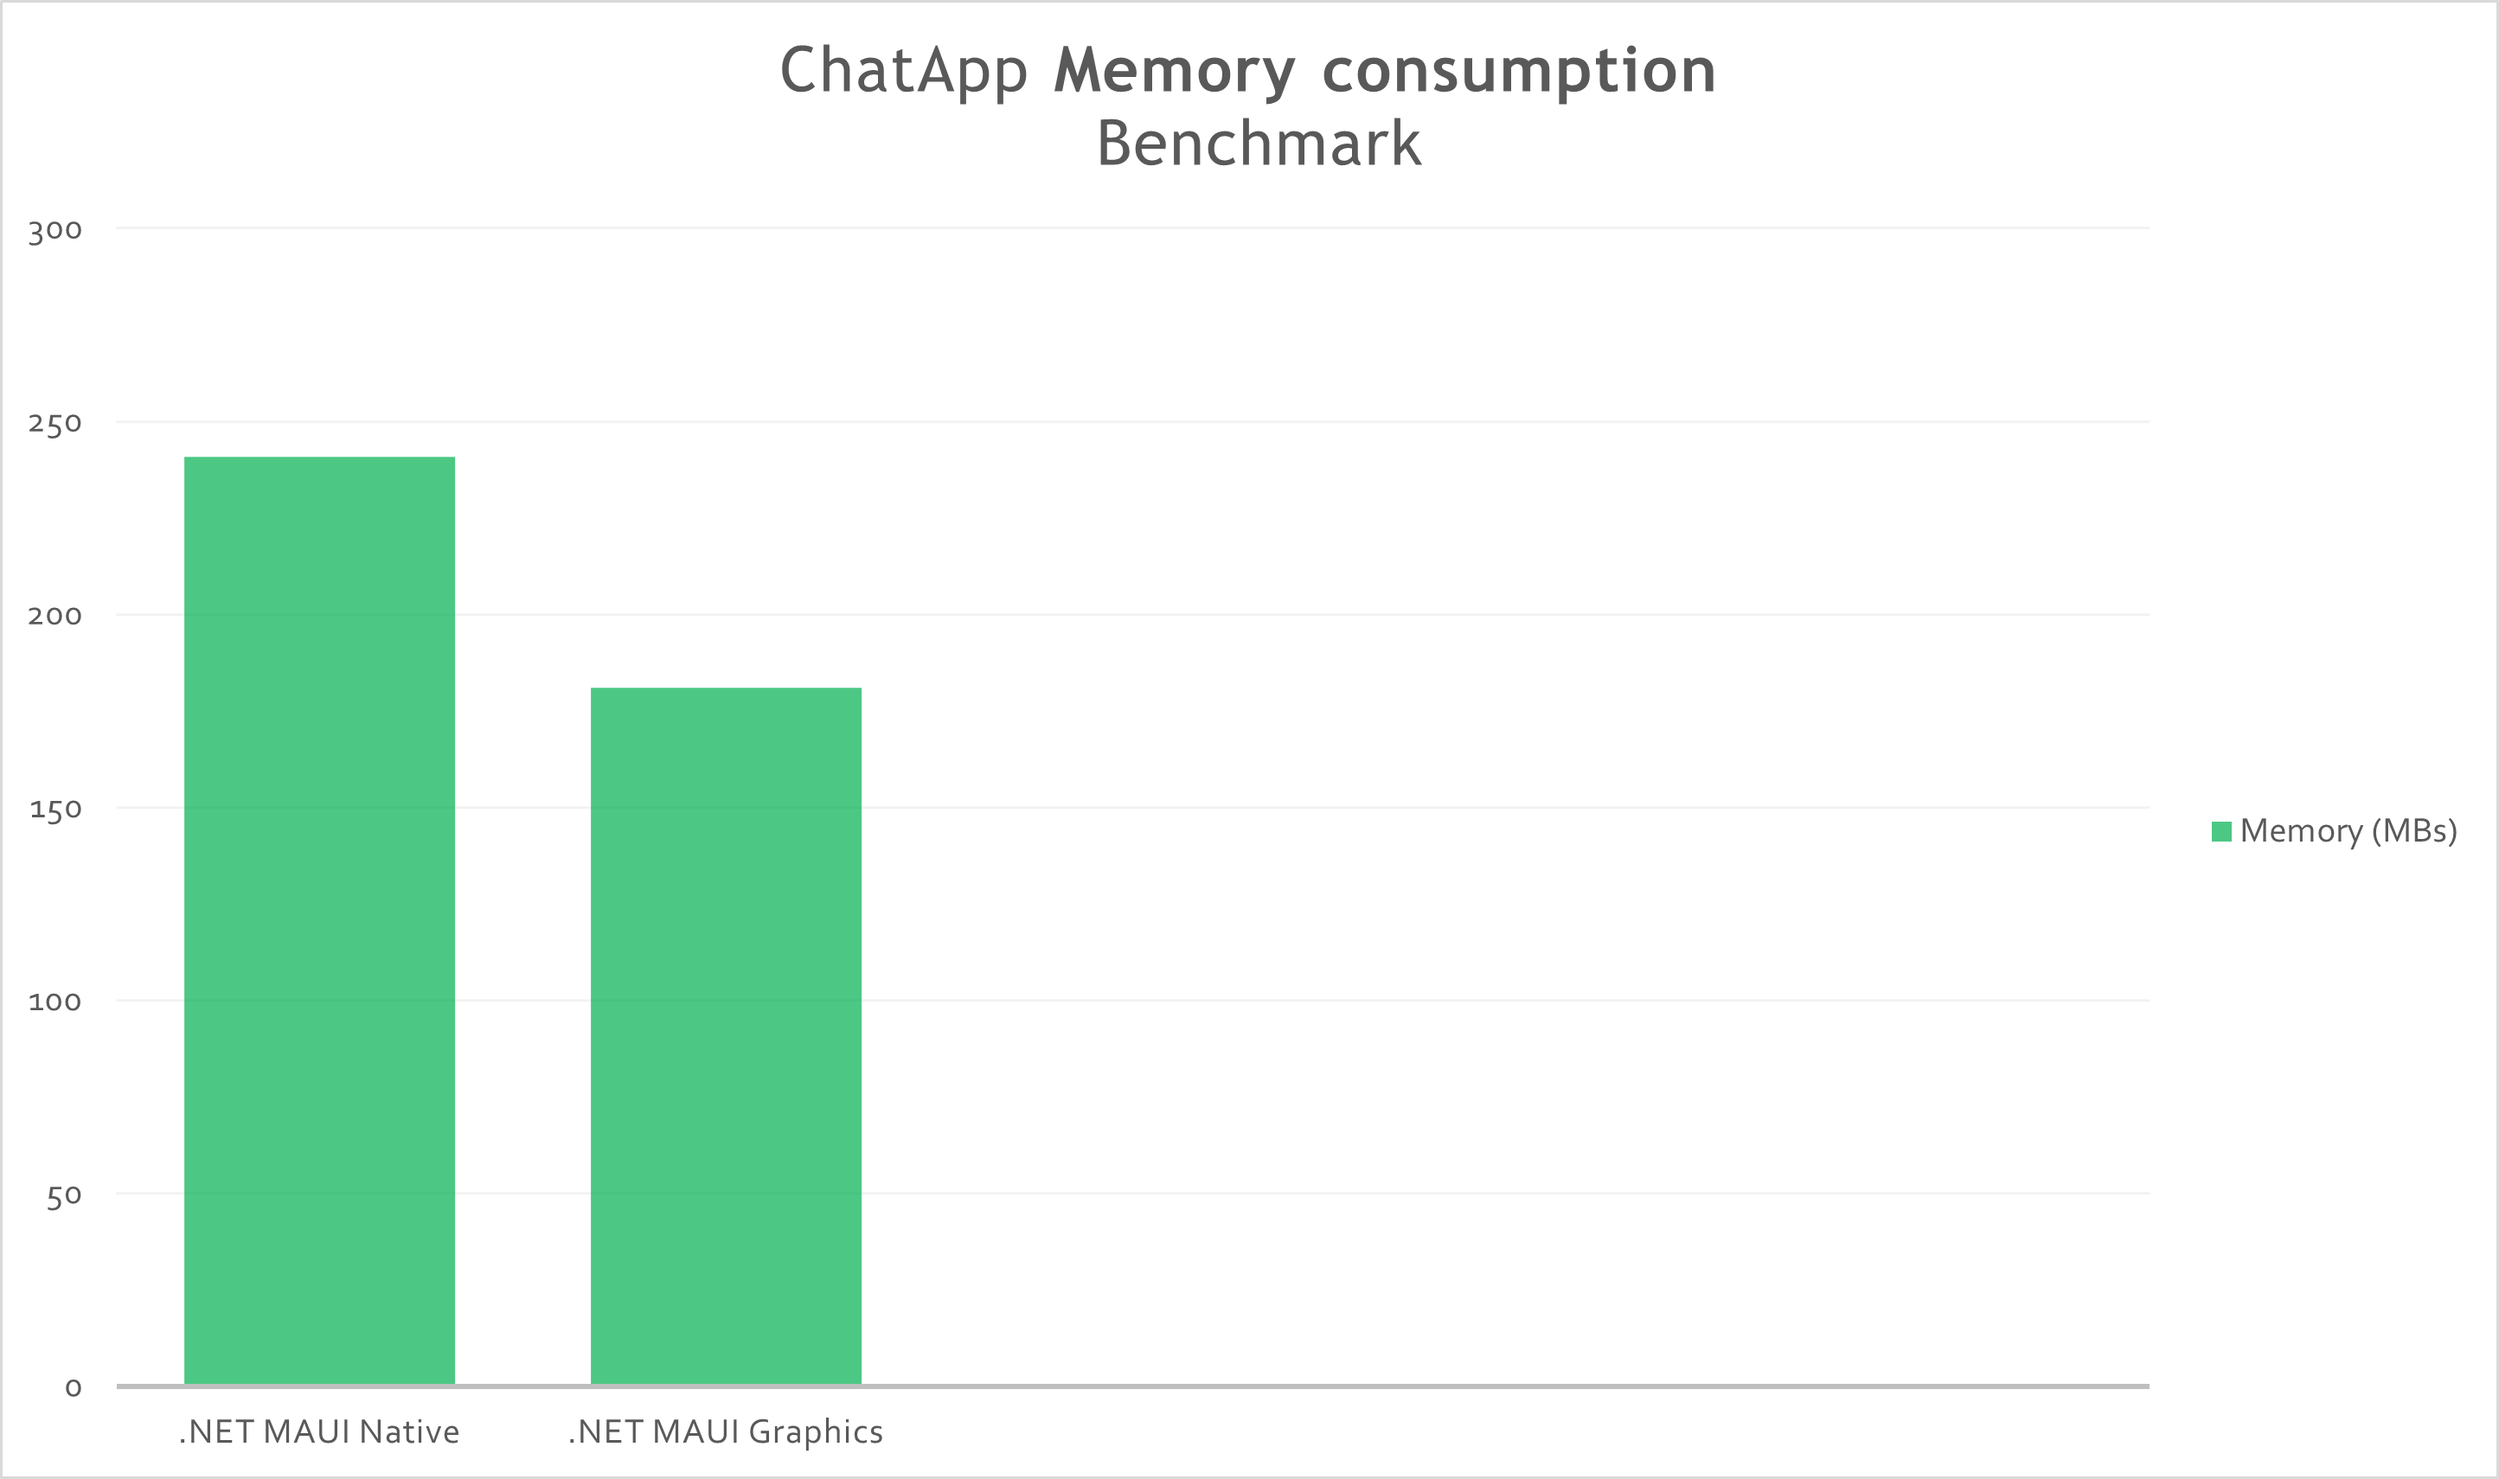
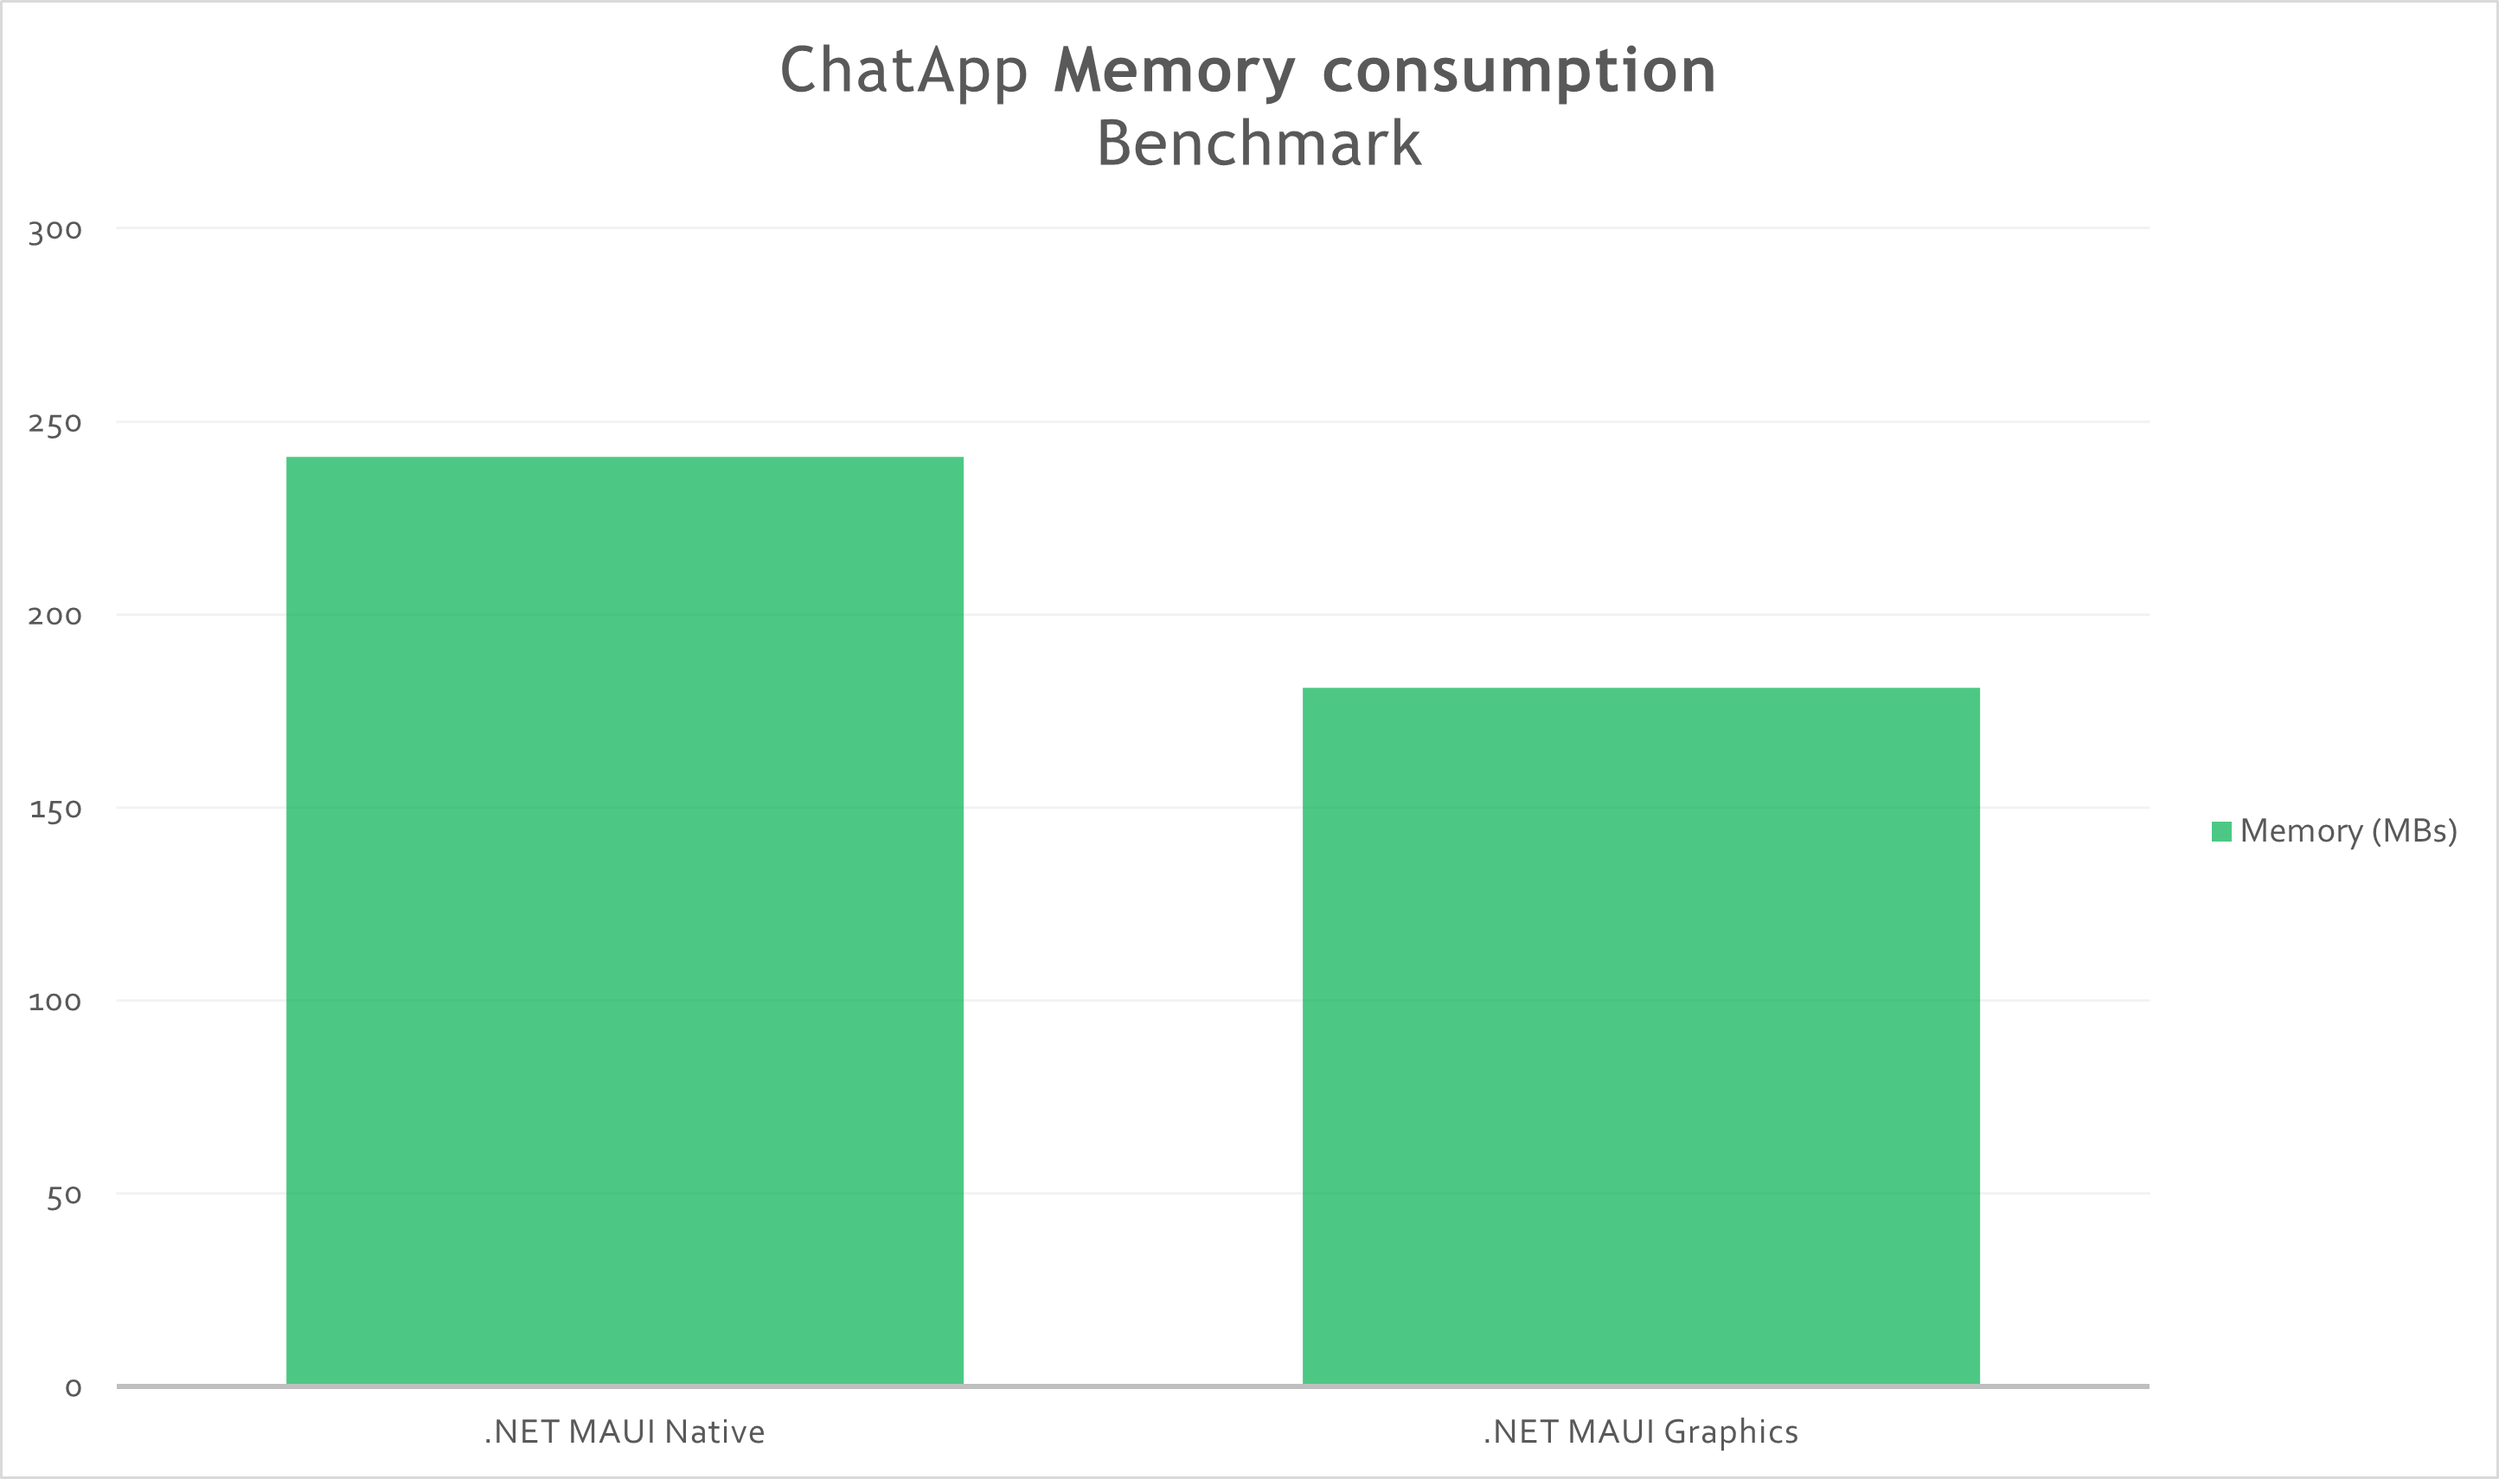
Added README

Changed region(s): [[0.0623, 0.3099, 0.405, 0.9918], [0.4984, 0.4649, 0.81, 0.9918]]

diff --git a/README.md b/README.md
@@ -1,0 +1,19 @@
+_NOTE: A Poco F2 Pro has been used to obtain the data._
+
+#### Startup time
+
+| Android App | Framework           | Profiled AOT Time (ms) |
+|-------------|---------------------| ---------------------:|
+| ChatApp    |  .NET MAUI GA SR1 (Native Views)         |                716.9 |
+| ChatApp    |  .NET MAUI GA SR1 (Drawn Views)          |                432.1 |
+
+![ChatApp Startup time](images/chatapp-startup-benchmark.png)
+
+#### Memory consumption
+
+| Android App | Framework           | Profiled AOT Time(MBs) |
+|-------------|---------------------| ---------------------:|
+| ChatApp    |  .NET MAUI GA SR1 (Native Views)         |                240.876 |
+| ChatApp    |  .NET MAUI GA SR1 (Drawn Views)          |                180.890 |
+
+![ChatApp Memory time](images/chatapp-memory-benchmark.png)
